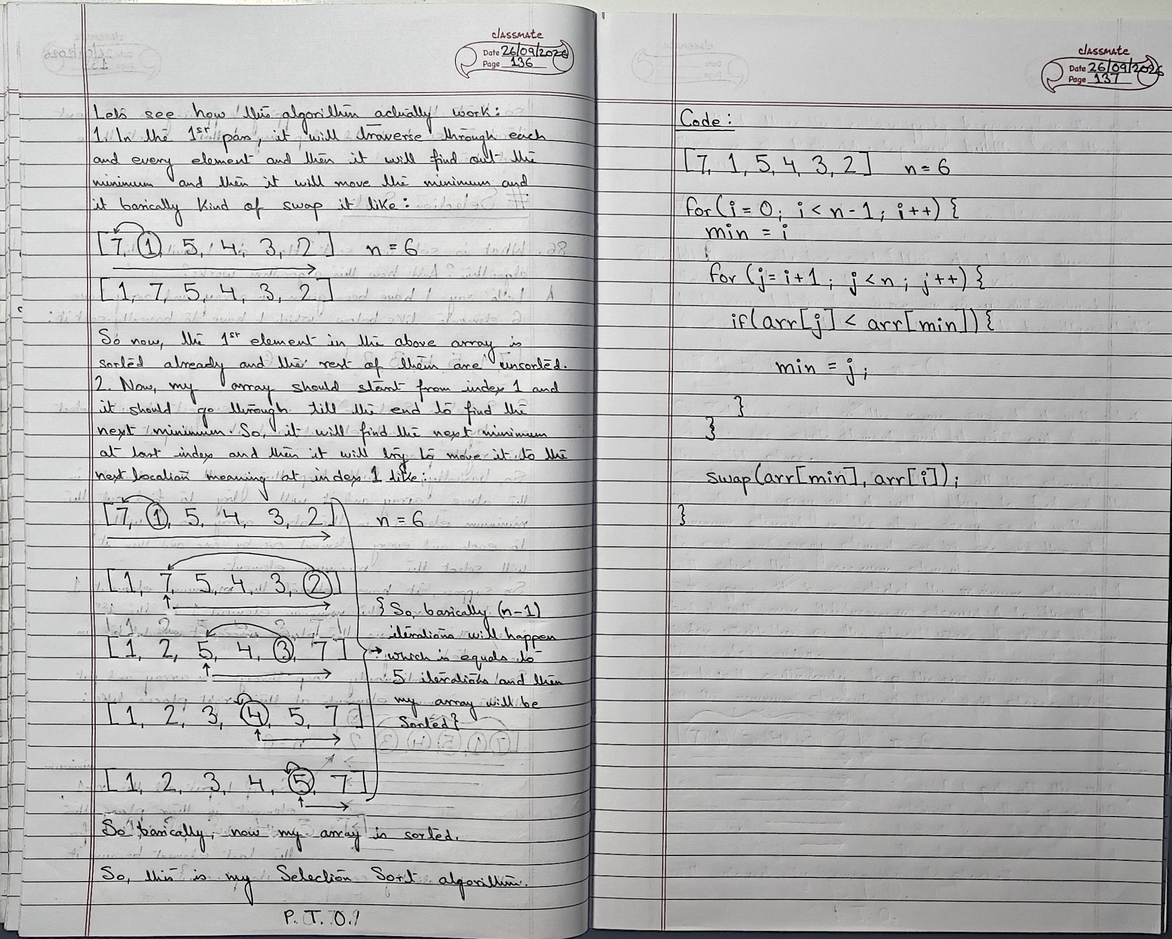
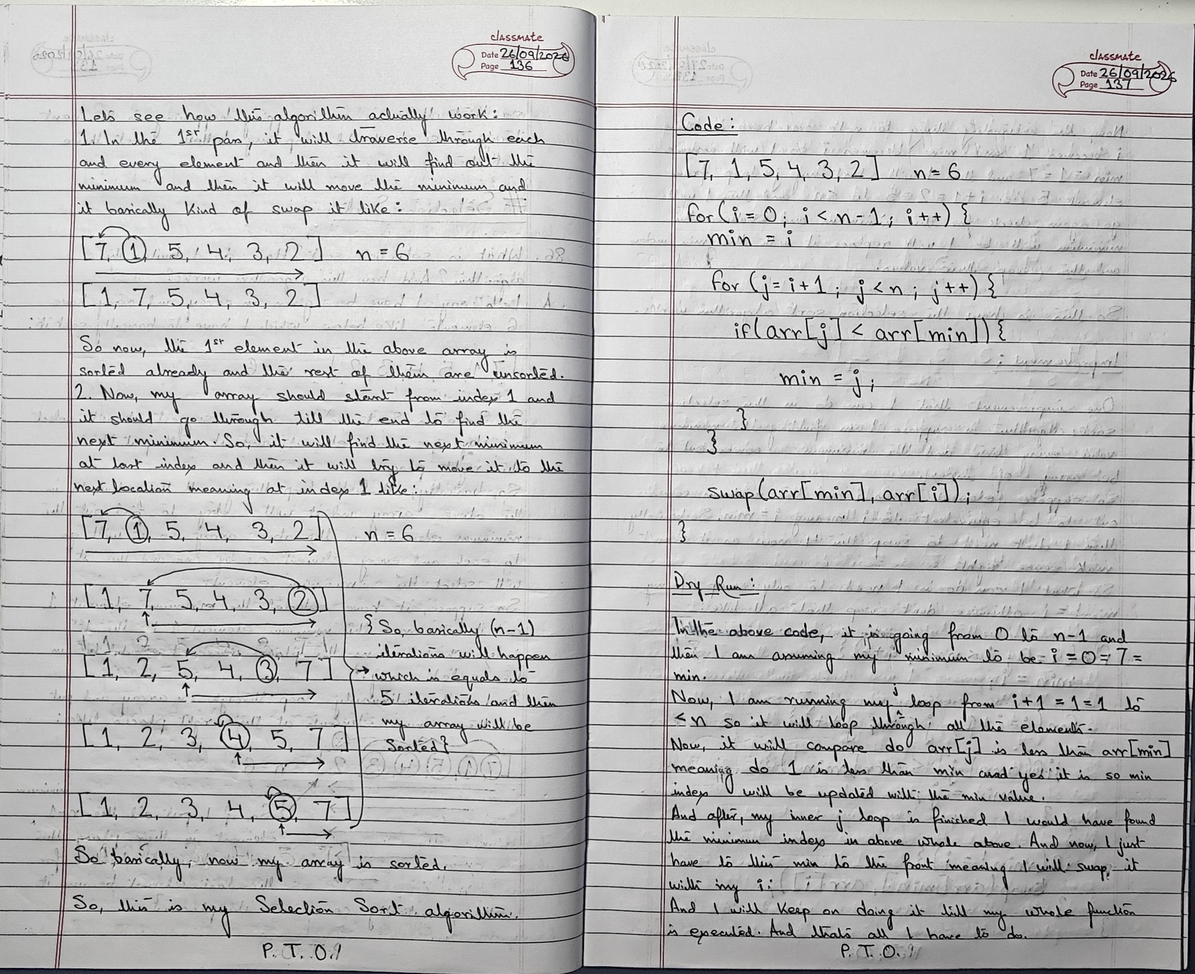
Add insertion sort demo and fix selection sort
This change adds a new insertion sort example page and README under src/searching-and-sorting-easy-or-medium/insertion-sort, including the demo script and HTML shell. It also fixes the selection sort implementation comments to return the correct array value, and refreshes the notes assets by renaming the cover image and adding the new page images.

Changed region(s): [[0.0, 0.0, 1.0, 1.0], [0.25, 0.0, 0.2812, 0.0308]]

diff --git a/src/searching-and-sorting-easy-or-medium/insertion-sort/script.js b/src/searching-and-sorting-easy-or-medium/insertion-sort/script.js
@@ -1,0 +1,85 @@
+// =============================================
+// Insertion Sort
+// =============================================
+
+// Problem
+// Insertion sort: arr = [7, 4, 3, 5, 1, 2]
+
+// Solution:
+// =============================================
+// Use case: 01
+// =============================================
+// let arr = [7, 4, 3, 5, 1, 2];
+
+// function insertionSort(a) {
+//   let n = arr.length;
+
+//   for (let i = 1; i < n; i++) {
+//     let curr = a[i];
+//     let prev = i - 1;
+
+//     while (a[prev] > curr) {
+//       a[prev + 1] = a[prev];
+//       prev--;
+//     }
+
+//     a[prev + 1] = curr;
+//   }
+
+//   return arr;
+// }
+
+// let result = insertionSort(arr);
+// console.log(result);
+
+// =============================================
+// Use case: 02 [Corner case like when prev is exhausted meaning when it becomes -1 then I'll break while loop]
+// =============================================
+// let arr = [7, 4, 3, 5, 1, 2];
+
+// function insertionSort(a) {
+//   let n = arr.length;
+
+//   for (let i = 1; i < n; i++) {
+//     let curr = a[i];
+//     let prev = i - 1;
+
+//     while (a[prev] > curr && prev >= 0) {
+//       a[prev + 1] = a[prev];
+//       prev--;
+//     }
+
+//     a[prev + 1] = curr;
+//   }
+
+//   return arr;
+// }
+
+// let result = insertionSort(arr);
+// console.log(result);
+
+// =============================================
+// Use case: 02
+// =============================================
+let arr = [7, 1, 5, 12, -10, 0, 4, 3, 2];
+
+function insertionSort(a) {
+  let n = arr.length;
+
+  for (let i = 1; i < n; i++) {
+    let curr = a[i];
+    let prev = i - 1;
+
+    while (a[prev] > curr && prev >= 0) {
+      a[prev + 1] = a[prev];
+      prev--;
+    }
+
+    a[prev + 1] = curr;
+  }
+
+  return arr;
+}
+
+let result = insertionSort(arr);
+console.log(result);

diff --git a/src/searching-and-sorting-easy-or-medium/insertion-sort/index.html b/src/searching-and-sorting-easy-or-medium/insertion-sort/index.html
@@ -1,0 +1,19 @@
+<!DOCTYPE html>
+<html lang="en">
+
+<head>
+  <meta charset="UTF-8">
+  <meta name="viewport" content="width=device-width, initial-scale=1.0">
+  <title>Insertion Sort</title>
+  <link rel="icon" type="image/png" href="../../../assets/img/favicon/favicon-96x96.png" sizes="96x96" />
+  <link rel="icon" type="image/svg+xml" href="../../../assets/img/favicon/favicon.svg" />
+  <link rel="shortcut icon" href="../../../assets/img/favicon/favicon.ico" />
+  <link rel="apple-touch-icon" sizes="180x180" href="../../../assets/img/favicon/apple-touch-icon.png" />
+  <link rel="manifest" href="../../../assets/img/favicon/site.webmanifest" />
+</head>
+
+<body>
+  <script src="./script.js" defer></script>
+</body>
+
+</html>

diff --git a/src/searching-and-sorting-easy-or-medium/selection-sort/script.js b/src/searching-and-sorting-easy-or-medium/selection-sort/script.js
@@ -29,7 +29,7 @@
 //     a[min] = temp;
 //   }
 
-//   return a;
+//   return arr;
 // }
 
 // let result = selectionSort(arr);
@@ -58,7 +58,7 @@
 //     a[min] = temp;
 //   }
 
-//   return a;
+//   return arr;
 // }
 
 // let result = selectionSort(arr);
@@ -89,7 +89,7 @@ function selectionSort(a) {
     }
   }
 
-  return a;
+  return arr;
 }
 
 let result = selectionSort(arr);
